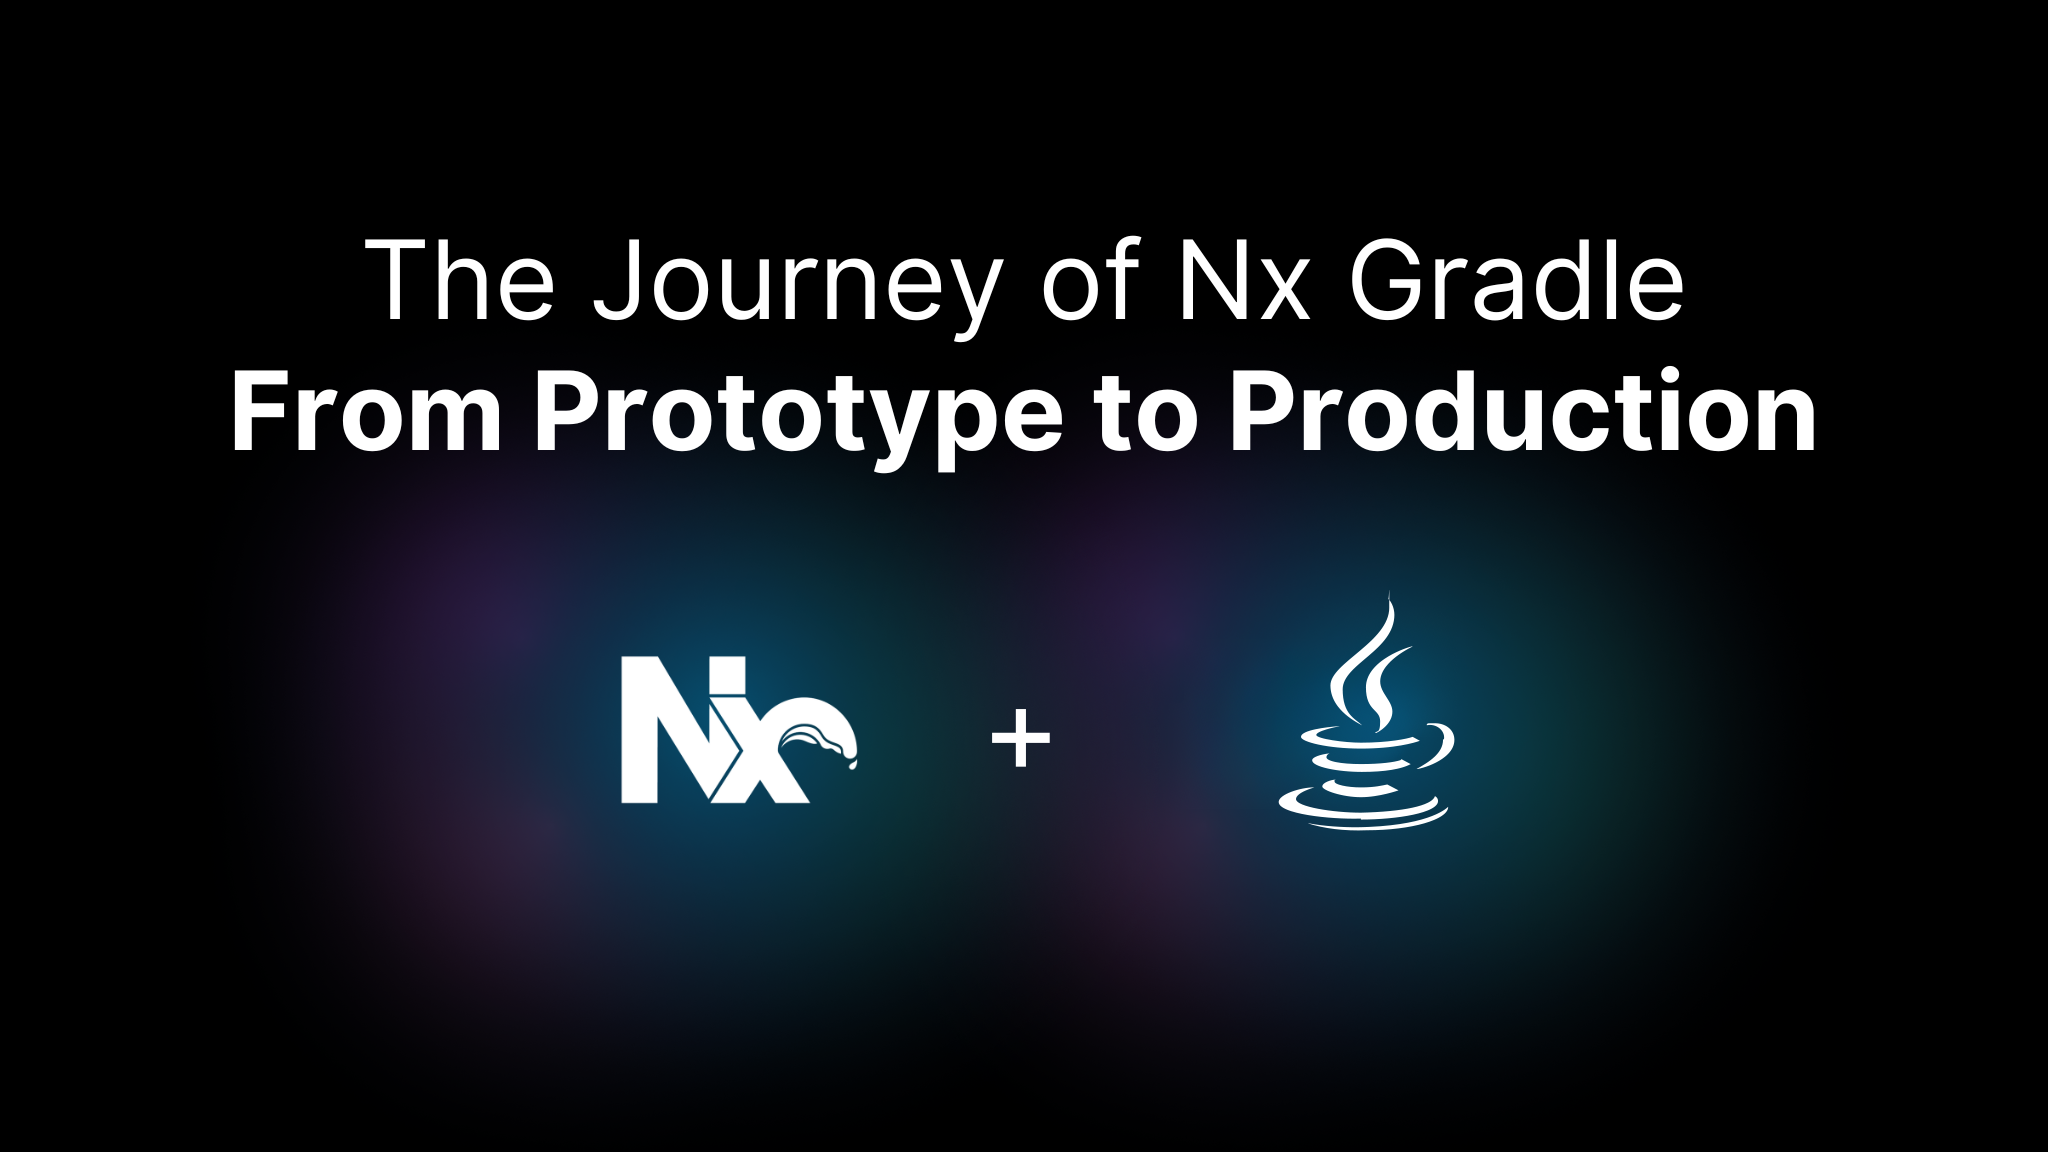
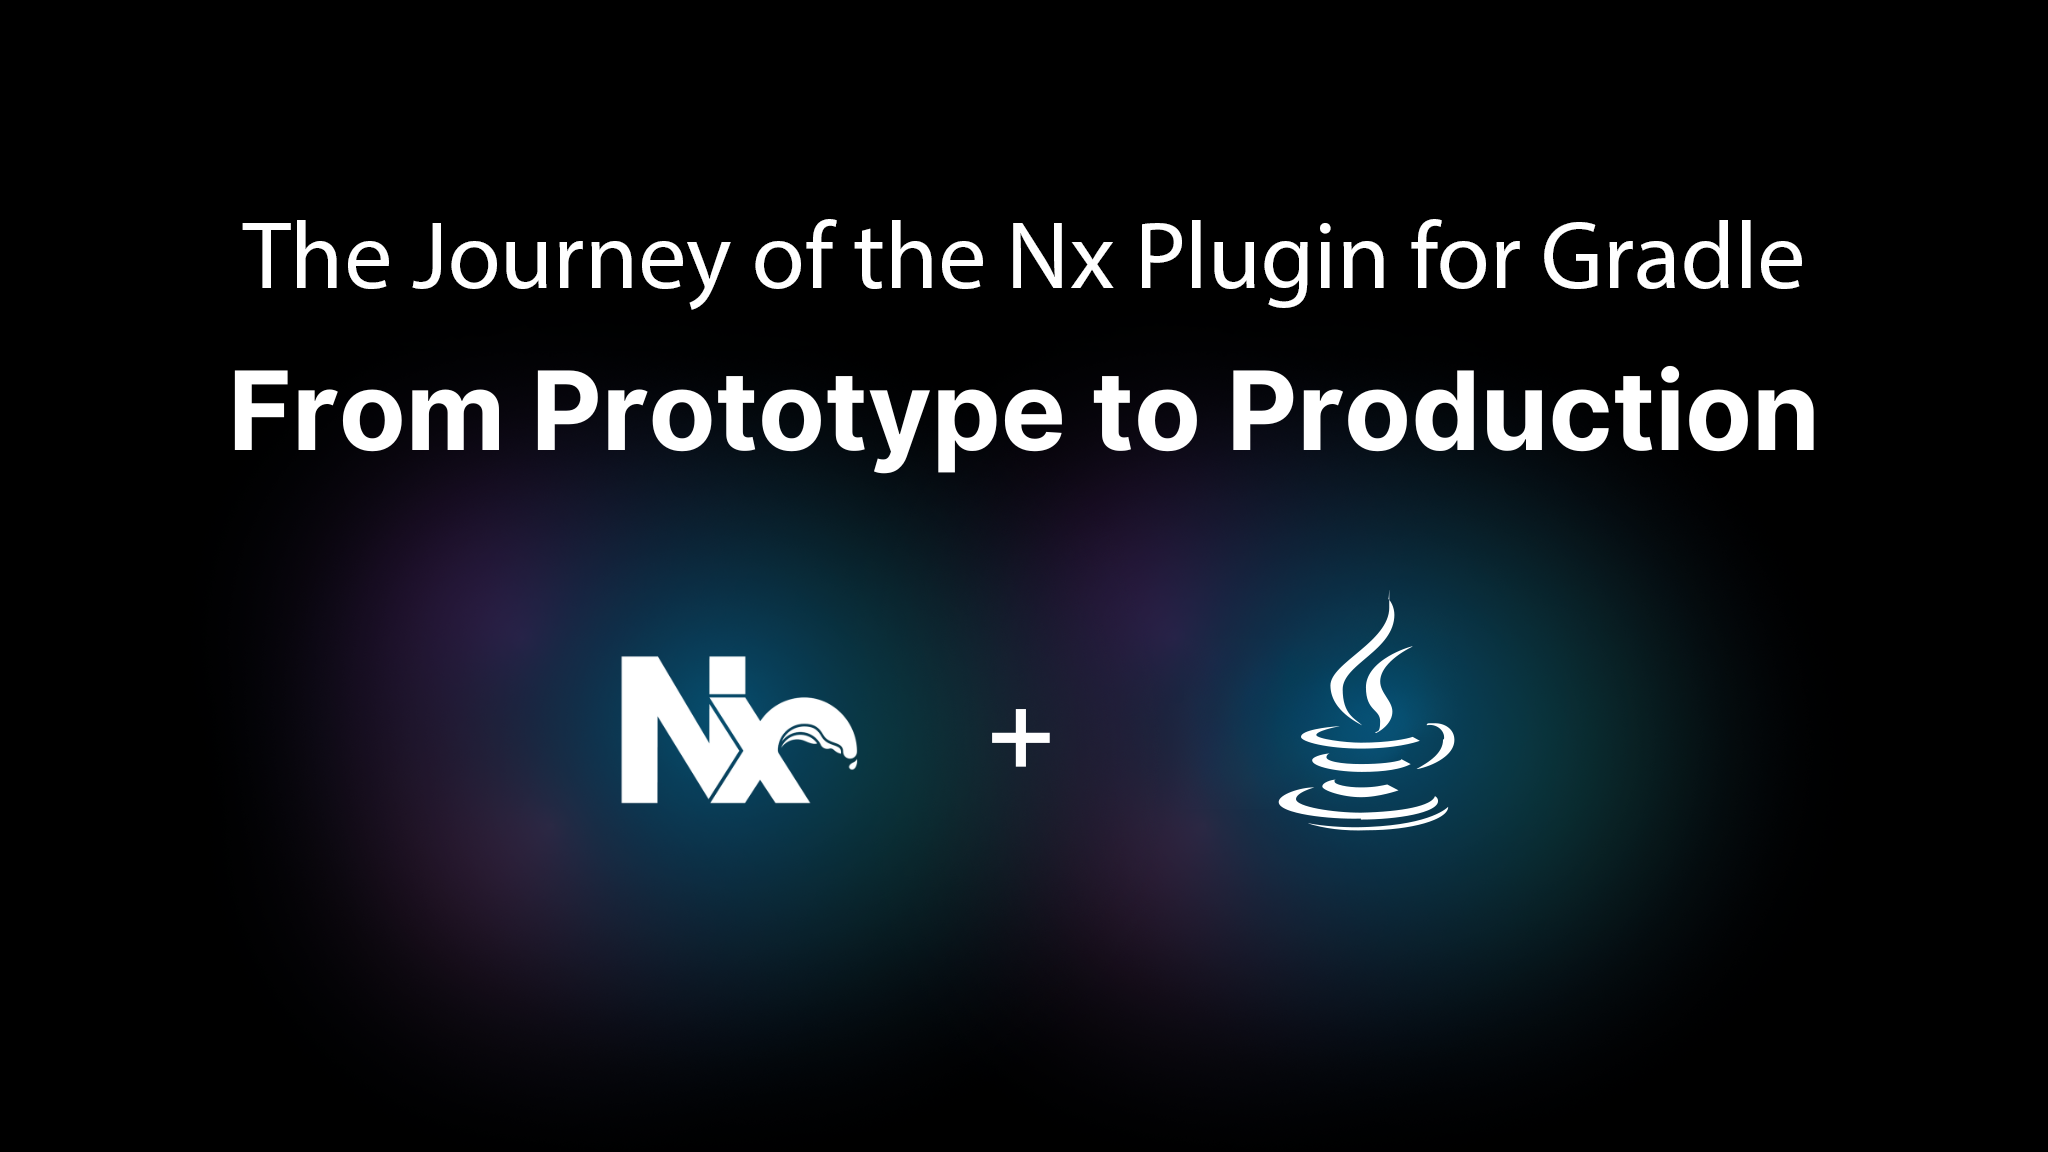
chore(nx-dev): update all docs references to the gradle plugin (#32373)
Changes references of the gradle plugin to "the Nx plugin for Gradle"

(cherry picked from commit fcfb5abd1092caeaf652e63ca777b42f538f8ff3)

Changed region(s): [[0.125, 0.1875, 0.875, 0.2812]]

diff --git a/docs/blog/2025-07-28-the-journey-of-the-nx-plugin-for-gradle.md b/docs/blog/2025-07-28-the-journey-of-the-nx-plugin-for-gradle.md
@@ -1,6 +1,6 @@
 ---
-title: 'The Journey of Nx Gradle: From Prototype to Production'
-slug: journey-of-nx-gradle
+title: 'The Journey of the Nx Plugin for Gradle: From Prototype to Production'
+slug: journey-of-the-nx-plugin-for-gradle
 authors: [Jason Jean, Mike Hartington]
 tags: ['java', 'gradle']
 description: Nx’s Gradle plugin evolved from a prototype into a robust solution for integrating Java projects in monorepos, offering deep Gradle insights, faster CI, and upcoming Maven support.
@@ -11,7 +11,7 @@ cover_image: /blog/images/2025-07-28/header.avif
 
 This article is part of the Java Week series:
 
-- **The Journey of Nx Gradle**
+- **The Journey of the Nx Plugin for Gradle**
 - [Polyglot Projects Made Easy](/blog/spring-boot-with-nx)
 - [Getting Mobile Into Your Monorepo](/blog/android-and-nx)
 - [Seamless Deploys With Docker](/blog/seamless-deploys-with-docker)
@@ -28,15 +28,15 @@ In February 2020, the Nx team attended their first Java conference, DevNexus. At
 
 Fast forward to 2024, and we made a major change to Nx. Code name **Project Crystal** was a shift in how Nx worked under the hood. Instead of configuring Nx separately to work with a particular tool, most tools have their own configuration that Nx would reference to get even better configuration programmatically. We started using this inferred approach for all of our core supported tools (like Vite) and would read the config from the associated config file (`vite.config.js`). **Project Crystal made Nx more transparent, simplified how Nx was configured, optimized the configuration, made running tools through Nx even faster, and reduced maintenance required all in one fell swoop.** Even during Project Crystal, Gradle was at the forefront of our considerations during this re-architecture. This new architecture set the stage for how Java/Gradle support could be implemented. Nx would get information from Gradle itself for how Nx should run Gradle and Nx would transparently invoke Gradle.
 
-## The Birth of Nx Gradle
+## The Birth of the Nx plugin for Gradle
 
 Shortly after inferred projects shipped, we had a reworked version of that early prototype that was ready for some real world testing as `@nx/gradle`. We [announced the plugin](/blog/manage-your-gradle-project-using-nx) and started to use it internally in our closed-source monorepo. We even had interest from some clients who had Java projects that they wanted to consolidate with their existing Nx monorepo.
 
 However, after it’s initial usage, we had started to notice some limitations with this approach. The main limitation was our usage of Gradle's built-in `project-report` feature which didn't provide Nx with enough detail for accurate configuration. We went back to the drawing board and reimagined how to add support for more complex setups that we saw in the real world.
 
-## A Smarter, Deeper Integration: v2 of Nx Gradle
+## A Smarter, Deeper Integration: v2 of the Nx plugin for Gradle
 
-By November 2024, the team began experimenting with a **v2** of Gradle plugin that aimed to extract richer and more granular data from Gradle itself. This involved building a dedicated **Gradle plugin for Nx (`dev.nx.gradle`)**. The new approach could detect:
+By November 2024, the team began experimenting with a **v2** of Gradle plugin that aimed to extract richer and more granular data from Gradle itself. This involved building a dedicated **Nx plugin for Gradle (`dev.nx.gradle`)**. The new approach could detect:
 
 - Available tasks
 - Task inputs and outputs
@@ -51,9 +51,9 @@ Even though we had learned a lot from the initial adoption of `@nx/gradle`, if w
 
 ## Looking Ahead
 
-As of now, the Nx Gradle plugin is in a much better state than when we started last year. We can now handle multi-module Gradle projects, as well as polyglot monorepos with existing JavaScript projects. This week, we're going to take a refreshed look at `@nx/gradle` and what you can expect in the future. We have more plans for Nx’s Java Support (like Maven support) so we're not done yet. In fact, we are actively prototyping a Maven plugin against the [Quarkus repository](https://github.com/quarkusio/quarkus)!
+As of now, the Nx plugin for Gradle is in a much better state than when we started last year. We can now handle multi-module Gradle projects, as well as polyglot monorepos with existing JavaScript projects. This week, we're going to take a refreshed look at `@nx/gradle` and what you can expect in the future. We have more plans for Nx’s Java Support (like Maven support) so we're not done yet. In fact, we are actively prototyping a Maven plugin against the [Quarkus repository](https://github.com/quarkusio/quarkus)!
 
-What began as an off-the-cuff prototype at a conference has matured into a serious offering for Java developers working in monorepos. Nx Gradle has evolved from a limited tool into a reliable, insightful, and enterprise-friendly integration—bringing the Nx developer experience to Java and teams. And with Maven support on the horizon, the journey is far from over.
+What began as an off-the-cuff prototype at a conference has matured into a serious offering for Java developers working in monorepos. The Nx plugin for Gradle has evolved from a limited tool into a reliable, insightful, and enterprise-friendly integration—bringing the Nx developer experience to Java and teams. And with Maven support on the horizon, the journey is far from over.
 
 **Stay tuned—because the future of Java at Nx is only just getting started.**
 
@@ -61,8 +61,8 @@ What began as an off-the-cuff prototype at a conference has matured into a serio
 
 Learn more:
 
-- 🌌 [Nx Gradle Tutorial](/getting-started/tutorials/gradle-tutorial)
-- 📖 [Nx Gradle API](/technologies/java/api)
+- 🌌 [Nx Plugin for Gradle Tutorial](/getting-started/tutorials/gradle-tutorial)
+- 📖 [API for the Nx plugin for Gradle](/technologies/java/api)
 - 👩💻 [Nx GitHub](https://github.com/nrwl/nx)
 - 👩💻 [Nx Console GitHub](https://github.com/nrwl/nx-console)
 - 💬 [Nx Official Discord Server](https://go.nx.dev/community)

diff --git a/docs/blog/2025-07-30-android-and-nx.md b/docs/blog/2025-07-30-android-and-nx.md
@@ -11,7 +11,7 @@ description: 'Learn how to integrate an Android app using Kotlin and Jetpack Com
 
 This article is part of the Java Week series:
 
-- [The Journey of Nx Gradle](/blog/journey-of-nx-gradle)
+- [The Journey of the Nx Plugin for Gradle](/blog/journey-of-the-nx-plugin-for-gradle)
 - [Polyglot Projects Made Easy](/blog/spring-boot-with-nx)
 - **Getting Mobile Into Your Monorepo**
 - [Seamless Deploys With Docker](/blog/seamless-deploys-with-docker)
@@ -58,7 +58,7 @@ Once imported, we do need to help Nx know about this project a bit more. For sta
 }
 ```
 
-Then we need to modify the `build.gradle.kt` to include the Nx Gradle plugin. This is currently a bug in the import process, so this is temporary. Remember, this isn't technically fully supported, so there be dragons:
+Then we need to modify the `build.gradle.kt` to include the Nx plugin. This is currently a bug in the import process, so this is temporary. Remember, this isn't technically fully supported, so there be dragons:
 
 ```diff {% fileName="build.gralde.kt" %}
 plugins {
@@ -115,14 +115,14 @@ We do need to have an emulator open, so we can start one from Android Studio or 
 
 ## What’s Next
 
-And that's it! It might seem not that impressive, but in the future, there could hypothetically be a dedicated Nx Android plugin that could handle starting your emulator and deploying your app. This could build on the Nx Gradle plugin and really help Android developers work more closely with their colleagues on the web team. We got one last blog post this week for our Java developers, so be sure to check back tomorrow and we'll get our app shipped 🚀.
+And that's it! It might seem not that impressive, but in the future, there could hypothetically be a dedicated Nx Android plugin that could handle starting your emulator and deploying your app. This could build on the Nx plugin for Gradle and really help Android developers work more closely with their colleagues on the web team. We got one last blog post this week for our Java developers, so be sure to check back tomorrow and we'll get our app shipped 🚀.
 
 ---
 
 Learn more:
 
-- 🌌 [Nx Gradle Tutorial](/getting-started/tutorials/gradle-tutorial)
-- 📖 [Nx Gradle API](/technologies/java/api)
+- 🌌 [Nx Plugin for Gradle Tutorial](/getting-started/tutorials/gradle-tutorial)
+- 📖 [API for the Nx plugin for Gradle](/technologies/java/api)
 - 👩💻 [Nx GitHub](https://github.com/nrwl/nx)
 - 👩💻 [Nx Console GitHub](https://github.com/nrwl/nx-console)
 - 💬 [Nx Official Discord Server](https://go.nx.dev/community)

diff --git a/docs/blog/2025-07-29-spring-boot-with-nx.md b/docs/blog/2025-07-29-spring-boot-with-nx.md
@@ -12,7 +12,7 @@ youtubeUrl: https://youtu.be/FM2kAw-NNsQ
 
 This article is part of the Java Week series:
 
-- [The Journey of Nx Gradle](/blog/journey-of-nx-gradle)
+- [The Journey of the Nx Plugin for Gradle](/blog/journey-of-the-nx-plugin-for-gradle)
 - **Polyglot Projects Made Easy**
 - [Getting Mobile Into Your Monorepo](/blog/android-and-nx)
 - [Seamless Deploys With Docker](/blog/seamless-deploys-with-docker)
@@ -43,7 +43,7 @@ For our Java project, it's going to suggest that we include the `@nx/gradle` plu
 
 ![](/blog/images/2025-07-29/java-tasks.png)
 
-Here we can see all of the available tasks from Gradle that we could run for our Java project. But how does Nx know about these tasks? We actually include a Gradle plugin for Nx that we use under the hood to inspect the Java project. When we call any `nx` command for our java project, we actually invoke Gradle in the background to get all of tasks that Gradle could run directly.
+Here we can see all of the available tasks from Gradle that we could run for our Java project. But how does Nx know about these tasks? We actually include an Nx plugin for Gradle that we use under the hood to inspect the Java project. When we call any `nx` command for our java project, we actually invoke Gradle in the background to get all of tasks that Gradle could run directly.
 
 ```groovy
 plugins {
@@ -142,8 +142,8 @@ With this, we have the beginnings of a great polyglot experience for teams that 
 
 Learn more:
 
-- 🌌 [Nx Gradle Tutorial](/getting-started/tutorials/gradle-tutorial)
-- 📖 [Nx Gradle API](/technologies/java/api)
+- 🌌 [Nx Plugin for Gradle Tutorial](/getting-started/tutorials/gradle-tutorial)
+- 📖 [API for the Nx plugin for Gradle](/technologies/java/api)
 - 👩💻 [Nx GitHub](https://github.com/nrwl/nx)
 - 👩💻 [Nx Console GitHub](https://github.com/nrwl/nx-console)
 - 💬 [Nx Official Discord Server](https://go.nx.dev/community)

diff --git a/docs/blog/2024-07-19-podcast-episode-2-tine-kondo.md b/docs/blog/2024-07-19-podcast-episode-2-tine-kondo.md
@@ -9,7 +9,7 @@ podcastSpotifyId: 0CCQaWCln7rvwkkVvsyxsk
 podcastAmazonUrl: https://music.amazon.com/podcasts/a221fdad-36fd-4695-a5b4-038d7b99d284/episodes/53934cd9-c521-441e-8523-8b947ed207ca/the-enterprise-software-podcast-by-nx-the-enterprise-software-podcast-by-nx-2-tine-kondo
 podcastAppleUrl: https://podcasts.apple.com/us/podcast/the-enterprise-software-podcast-by-nx-2-tine-kondo/id1752704996?i=1000662764990
 podcastIHeartUrl: https://www.iheart.com/podcast/269-the-enterprise-software-po-186891508/episode/the-enterprise-software-podcast-by-nx-197335640/
-description: 'Explore insights from Nx Champion Tine Kondo on monorepo benefits and the potential of Nx Gradle plugin for Java development.'
+description: 'Explore insights from Nx Champion Tine Kondo on monorepo benefits and the potential of the Nx plugin for Gradle for Java development.'
 ---
 
 In this episode, welcome Nx Champion and Nx Expert, Tine Kondo. Our discussion highlights how Nx is poised to make an impact in the Java space.

diff --git a/docs/blog/2025-07-31-seamless-deploys-with-docker.md b/docs/blog/2025-07-31-seamless-deploys-with-docker.md
@@ -12,7 +12,7 @@ youtubeUrl: https://youtu.be/TOPxKJXUaqw
 
 This article is part of the Java Week series:
 
-- [The Journey of Nx Gradle](/blog/journey-of-nx-gradle)
+- [The Journey of the Nx Plugin for Gradle](/blog/journey-of-the-nx-plugin-for-gradle)
 - [Polyglot Projects Made Easy](/blog/spring-boot-with-nx)
 - [Getting Mobile Into Your Monorepo](/blog/android-and-nx)
 - **Seamless Deploys With Docker**
@@ -149,8 +149,8 @@ If you're interested in knowing more, let us know! Join our community Discord an
 
 Learn more:
 
-- 🌌 [Nx Gradle Tutorial](/getting-started/tutorials/gradle-tutorial)
-- 📖 [Nx Gradle API](/technologies/java/api)
+- 🌌 [Nx Plugin for Gradle Tutorial](/getting-started/tutorials/gradle-tutorial)
+- 📖 [API for the Nx plugin for Gradle](/technologies/java/api)
 - 📦 [Nx Release](/features/manage-releases)
 - 👩💻 [Nx GitHub](https://github.com/nrwl/nx)
 - 👩💻 [Nx Console GitHub](https://github.com/nrwl/nx-console)

diff --git a/docs/shared/packages/gradle/gradle-plugin.md b/docs/shared/packages/gradle/gradle-plugin.md
@@ -1,13 +1,13 @@
 ---
-title: Overview of the Nx Gradle Plugin
-description: The Nx Plugin for Gradle allows Gradle tasks to be run through Nx.
+title: Overview of the Nx Plugin for Gradle
+description: This plugin allows Gradle tasks to be run through Nx.
 ---
 
 # @nx/gradle
 
 [Gradle](https://gradle.org/) is a fast, dependable, and adaptable open-source build automation tool with an elegant and extensible declarative build language. Gradle supports Android, Java, Kotlin Multiplatform, Groovy, Scala, Javascript, and C/C++.
 
-The Nx Gradle plugin registers Gradle projects in your Nx workspace. It allows Gradle tasks to be run through Nx. Nx effortlessly makes your [CI faster](/ci/recipes/set-up).
+The Nx plugin for Gradle registers Gradle projects in your Nx workspace. It allows Gradle tasks to be run through Nx. Nx effortlessly makes your [CI faster](/ci/recipes/set-up).
 
 Nx adds the following features to your workspace:
 

diff --git a/docs/blog/2024-04-19-manage-your-gradle.md b/docs/blog/2024-04-19-manage-your-gradle.md
@@ -11,7 +11,7 @@ Here's my situation: I have a Gradle workspace with multiple Gradle libraries. H
 
 We are very excited to announce our support for Gradle with our new plugin: `@nx/gradle`.
 
-The Nx Gradle plugin registers Gradle projects in your Nx workspace. It allows Gradle tasks to be run through Nx. Nx effortlessly makes your [CI faster](/ci/recipes/set-up).
+The Nx plugin for Gradle registers Gradle projects in your Nx workspace. It allows Gradle tasks to be run through Nx. Nx effortlessly makes your [CI faster](/ci/recipes/set-up).
 
 > **Update:** Learn how to import your existing Gradle projects into Nx in [our recent blog post](/blog/nx-import).
 
